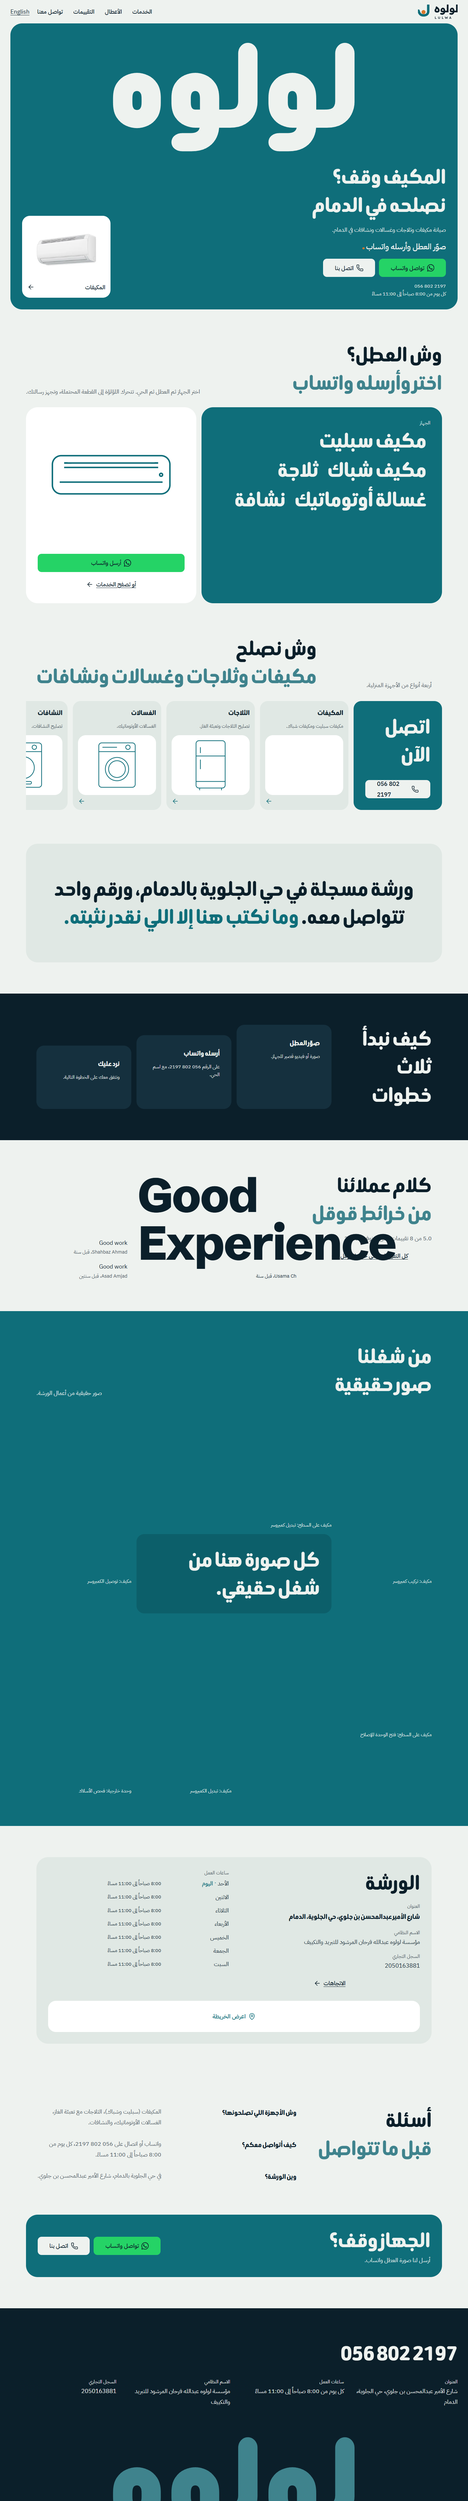
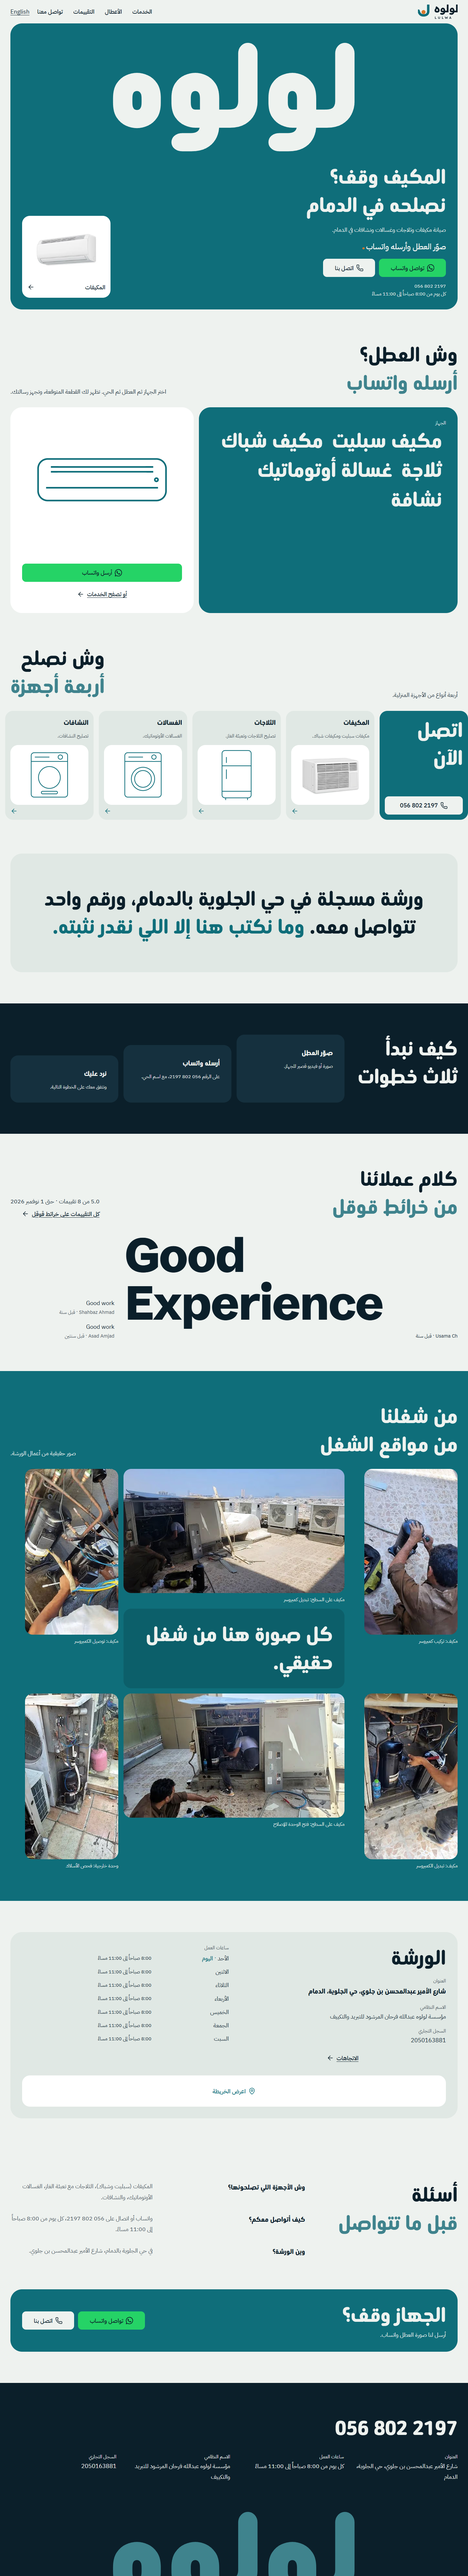
phase 4 wip: headings, margins, copy review

diff --git a/src/content/ar.ts b/src/content/ar.ts
@@ -105,25 +105,25 @@ export const ar: Content = {
     },
     picker: {
       heading: 'وش العطل؟',
-      quiet: 'اختر وأرسله واتساب',
-      lead: 'اختر الجهاز ثم العطل ثم الحي. تتحرك اللؤلؤة إلى القطعة المحتملة، وتجهز رسالتك.',
+      quiet: 'أرسله واتساب',
+      lead: 'اختر الجهاز ثم العطل ثم الحي. تظهر لك القطعة المتوقعة، وتجهز رسالتك.',
       applianceLabel: 'الجهاز',
       faultLabel: 'العطل',
       areaLabel: 'الحي',
       send: 'أرسل واتساب',
       plain: 'أو تصفح الخدمات',
-      likely: 'القطعة المحتملة:',
+      likely: 'القطعة المتوقعة:',
       message: 'السلام عليكم، عندي {appliance}، {fault}. الحي: {area}.',
       appliances: [
         { slug: 'split-ac', name: 'مكيف سبليت', service: 'ac-repair', faults: [{ label: 'ما يبرّد', part: 'الفلتر أو الغاز' }, { label: 'يسرّب ماء', part: 'مجرى التصريف' }, { label: 'ما يشتغل', part: 'لوحة التحكم' }, { label: 'صوته عالي', part: 'المروحة' }] },
         { slug: 'window-ac', name: 'مكيف شباك', service: 'ac-repair', faults: [{ label: 'ما يبرّد', part: 'الفلتر أو الغاز' }, { label: 'يسرّب ماء', part: 'مجرى التصريف' }, { label: 'ما يشتغل', part: 'لوحة التحكم' }, { label: 'صوته عالي', part: 'المروحة' }] },
         { slug: 'fridge', name: 'ثلاجة', service: 'refrigerator-repair', faults: [{ label: 'ما تبرّد', part: 'الكمبروسر أو الغاز' }, { label: 'تسرّب ماء', part: 'مجرى التصريف' }, { label: 'ما تشتغل', part: 'لوحة التحكم' }, { label: 'صوتها عالي', part: 'المروحة أو الكمبروسر' }] },
-        { slug: 'washer', name: 'غسالة أوتوماتيك', service: 'washing-machine-repair', faults: [{ label: 'ما تعصر', part: 'السير أو الموتور' }, { label: 'ما تصرّف الماء', part: 'مضخة التصريف' }, { label: 'ما تشتغل', part: 'لوحة التحكم' }, { label: 'تهتز بقوة', part: 'المساعدات' }] },
+        { slug: 'washer', name: 'غسالة أوتوماتيك', service: 'washing-machine-repair', faults: [{ label: 'ما تعصر', part: 'السير أو الدينمو' }, { label: 'ما تصرّف الماء', part: 'مضخة التصريف' }, { label: 'ما تشتغل', part: 'لوحة التحكم' }, { label: 'تهتز بقوة', part: 'المساعدات' }] },
         { slug: 'dryer', name: 'نشافة', service: 'dryer-repair', faults: [{ label: 'ما تسخّن', part: 'السخان' }, { label: 'ما تجفف زي أول', part: 'فلتر الوبر' }, { label: 'ما تدور', part: 'السير' }, { label: 'ما تشتغل', part: 'لوحة التحكم' }] },
       ],
-      areas: ['الجلوية', 'حي ثاني في الدمام'],
+      areas: ['الجلوية', 'حي آخر في الدمام'],
     },
-    repair: { heading: 'وش نصلح', quiet: 'مكيفات وثلاجات وغسالات ونشافات', lead: 'أربعة أنواع من الأجهزة المنزلية.', callLabel: 'اتصل الآن' },
+    repair: { heading: 'وش نصلح', quiet: 'أربعة أجهزة', lead: 'أربعة أنواع من الأجهزة المنزلية.', callLabel: 'اتصل الآن' },
     statement: { start: 'ورشة مسجلة في حي الجلوية بالدمام، ورقم واحد تتواصل معه.', quiet: 'وما نكتب هنا إلا اللي نقدر نثبته.' },
     steps: {
       heading: 'كيف نبدأ',
@@ -137,7 +137,7 @@ export const ar: Content = {
     reviews: { heading: 'كلام عملائنا', quiet: 'من خرائط قوقل', link: 'كل التقييمات على خرائط قوقل' },
     work: {
       heading: 'من شغلنا',
-      quiet: 'صور حقيقية',
+      quiet: 'من مواقع الشغل',
       lead: 'صور حقيقية من أعمال الورشة.',
       statement: 'كل صورة هنا من شغل حقيقي.',
       items: [

diff --git a/src/content/en.ts b/src/content/en.ts
@@ -104,8 +104,8 @@ export const en: Content = {
       tile: { alt: 'Illustration of a split air conditioner' },
     },
     picker: {
-      heading: 'What is the fault?',
-      quiet: 'Pick it, send it on WhatsApp',
+      heading: 'What is wrong?',
+      quiet: 'Pick and send',
       lead: 'Pick the appliance, the fault, then your district. The pearl moves to the likely part and your message is ready.',
       applianceLabel: 'Appliance',
       faultLabel: 'Fault',
@@ -113,7 +113,7 @@ export const en: Content = {
       send: 'Send on WhatsApp',
       plain: 'Or browse the services',
       likely: 'Likely part:',
-      message: 'Hello, I have a {appliance}: {fault}. District: {area}.',
+      message: 'Hello. Appliance: {appliance}. Fault: {fault}. District: {area}.',
       appliances: [
         { slug: 'split-ac', name: 'Split AC', service: 'ac-repair', faults: [{ label: 'Not cooling', part: 'filter or gas' }, { label: 'Leaking water', part: 'drain line' }, { label: 'Will not start', part: 'control board' }, { label: 'Loud', part: 'fan' }] },
         { slug: 'window-ac', name: 'Window AC', service: 'ac-repair', faults: [{ label: 'Not cooling', part: 'filter or gas' }, { label: 'Leaking water', part: 'drain line' }, { label: 'Will not start', part: 'control board' }, { label: 'Loud', part: 'fan' }] },
@@ -123,7 +123,7 @@ export const en: Content = {
       ],
       areas: ['Al-Jalawiyah', 'Another Dammam district'],
     },
-    repair: { heading: 'What we repair', quiet: 'ACs, fridges, washers and dryers', lead: 'Four kinds of household appliance.', callLabel: 'Call now' },
+    repair: { heading: 'What we repair', quiet: 'Four appliances', lead: 'Four kinds of household appliance.', callLabel: 'Call now' },
     statement: { start: 'A registered shop in Al-Jalawiyah, Dammam, with one number to reach.', quiet: 'We only write here what we can show.' },
     steps: {
       heading: 'How it starts',
@@ -134,10 +134,10 @@ export const en: Content = {
         { title: 'We reply', text: 'And agree the next step with you.' },
       ],
     },
-    reviews: { heading: 'What customers say', quiet: 'From Google Maps', link: 'All reviews on Google Maps' },
+    reviews: { heading: 'Customer reviews', quiet: 'From Google Maps', link: 'All reviews on Google Maps' },
     work: {
       heading: 'Our work',
-      quiet: 'Real photos',
+      quiet: 'From the job site',
       lead: 'Real photos from the shop’s jobs.',
       statement: 'Every photo here is from a real job.',
       items: [
@@ -152,7 +152,7 @@ export const en: Content = {
     shop: { heading: 'The shop', addressLabel: 'Address', address: 'Prince Abdulmohsen bin Jalawi Street, Al-Jalawiyah, Dammam', hoursLabel: 'Opening hours', hours: 'Every day, 8:00 AM to 11:00 PM', hoursRange: '8:00 AM to 11:00 PM', today: 'Today', days: ['Sunday', 'Monday', 'Tuesday', 'Wednesday', 'Thursday', 'Friday', 'Saturday'], mapLoad: 'Show the map', legalLabel: 'Legal name', crLabel: 'Commercial registration' },
     faq: {
       heading: 'Questions',
-      quiet: 'Before you get in touch',
+      quiet: 'Before you write',
       items: [
         { q: 'Which appliances do you repair?', a: 'Air conditioners (split and window), fridges including gas refilling, automatic washing machines and dryers.' },
         { q: 'How do I reach you?', a: `WhatsApp or call ${phone}, every day from 8:00 AM to 11:00 PM.` },

diff --git a/src/styles/tokens.css b/src/styles/tokens.css
@@ -68,7 +68,7 @@
   --spacing-hero: 44rem; /* hero panel floor on desktop */
 
   --container-*: initial;
-  --container-page: 80rem;
+  --container-page: 90rem; /* content lines up with the hero's margins at 1440 */
   --container-text: 40rem;
 
   --shadow-*: initial;
@@ -85,6 +85,7 @@
   --stagger: 70ms;
   --rise: 1.25rem;
   --focus-width: 3px;
+  --word-display: 0.12em; /* Beiruti's space is thin: words run together at display size */
 }
 
 :lang(en) {

diff --git a/src/styles/global.css b/src/styles/global.css
@@ -59,6 +59,10 @@
     caret-color: var(--color-teal);
   }
 
+  .font-display:lang(ar) {
+    word-spacing: var(--word-display);
+  }
+
   ::selection {
     background: var(--color-teal);
     color: var(--color-pearl);

diff --git a/docs/FOR-AMEER.md b/docs/FOR-AMEER.md
@@ -28,6 +28,20 @@ Questions, verifications and access needed, gathered while Ameer sleeps. Nothing
 - **Blog:** the 3 old posts are replaced by short, generic how-to posts on the same slugs. The old posts were full of unsourced claims. Technician to confirm the advice (filter, drain hose, lint) is right.
 - Arabic doubts for the native reader: `docs/ARABIC-REVIEW.md`.
 
+## Phase 4 (2026-11-01)
+- **Home OK?** `docs/shots/phase-4/`. Layout follows your reference: picker bento, service row with call card, tinted statement, process, review, photo wall, shop, questions, close.
+- **Technician check needed:** every fault-to-part link in the picker (`home.picker.appliances` in `src/content/ar.ts` and `en.ts`, pearl spots in `src/components/appliance-art.ts`) is my own reasoning. The site labels them only as "likely" (القطعة المتوقعة). Nobody has confirmed them.
+- **Product images incomplete:** agy's image quota ran out (429, reset about 4.5 hours after 09:15 on 1 Nov). Window AC and outdoor unit came through, checked, no logos or lettering. Fridge, washer and dryer cards show line drawings for now. To swap: `python scripts/gen-products.py`, look at each image, `node scripts/images.mjs`, `pnpm build`. The cards pick them up with no code change. The compressor image was dropped, since nothing on the page uses it.
+- **Photo captions are read from the photos and their file names,** not from the shop: "compressor change", "checking the wiring". Client or technician to confirm.
+- **Rooftop units:** two wall photos show rooftop package units, and central AC is still unconfirmed in `PRODUCT.md`. Captions say only "rooftop AC". Drop the two photos if the client does not want to imply that work.
+- **Faces:** technicians are partly visible in the photos (`compressor-install`, `rooftop-unit-repair`). Get the client's OK to publish.
+- **Photos left out:** shopfront (old sign), technician-package-unit (coverall reads AJCO, another company), delivery truck and street night (plates, other shops), LG outdoor units (could read as an LG agency).
+- **Reviews on home:** the two with emoji are left off until you make the Phase 2 call. Only "Good Experience" and two "Good work" show, which is thin at statement size. A longer review from the 3 unseen ones would help.
+- **Map:** the tap-to-load map searches "Al-Jalawiyah, Dammam", not a pin. Needs the exact pin from the client (question 9). Directions opens the Google listing.
+- **Picker areas:** Al-Jalawiyah and "another Dammam district" only, because no other area is confirmed.
+- **New Arabic words for the native reader:** see `docs/ARABIC-REVIEW.md`.
+- **Links:** service cards and the picker's no-JS links 404 until Phase 5 builds those pages.
+
 ## Phase 3 (2026-11-01)
 - **Hero OK?** `docs/shots/phase-3/`. It follows your reference: teal panel, giant لولوه / LULWA, one AC tile.
 - **Home-visit swap:** the hero says `صوّر العطل وأرسله واتساب` / `Photograph the fault and send it on WhatsApp`, which are confirmed facts. When the client confirms visits, add a dated line to `PRODUCT.md`, then set `home.hero.homeVisitLine` to `نجيك لحد بيتك` / `We come to you` in `src/content/ar.ts` and `en.ts`. It replaces the line with no code change. `home.hero.service` could then be reviewed too.

diff --git a/docs/ARABIC-REVIEW.md b/docs/ARABIC-REVIEW.md
@@ -20,3 +20,6 @@ agy reviewed these on 1 Nov 2026. Its suggestions are unverified and nothing was
 - `العنوان` or `الموقع`, `ساعات العمل` or `أوقات العمل`.
 - `الاسم النظامي`: agy suggests `الاسم التجاري`, but that is a different thing from the legal name. Check the right term.
 - `الأعطال` in the nav: agy suggests `الأعطال الشائعة`. `التقييمات`: agy suggests `آراء العملاء`.
+
+## Phase 4: home bands and picker
+agy reviewed this copy once. Taken: القطعة المتوقعة, حي آخر في الدمام, الدينمو (agy says it is the common Saudi word for an appliance motor; confirm). Rejected: أرسلها (العطل is masculine), بدون تعديل (the photos are retouched). Please read: المساعدات for washer shock absorbers, ما تدور for a dryer drum, من مواقع الشغل, قبل ما تتواصل.

diff --git a/CLAUDE.md b/CLAUDE.md
@@ -61,6 +61,7 @@ Keep this list in sync with `package.json`.
 - `pnpm test:contract`: builds, runs T1 to T22, prints each against the phase that owes it. Add `--fast` to skip Lighthouse. About 20 minutes while pages are missing.
 - `pnpm test:e2e`: Playwright only, on the built site, in installed Edge. `pnpm test:e2e tests/nap.spec.ts` for one.
 - `pnpm test:photos` (T22), `pnpm test:taste` (T20), `pnpm test:lighthouse` (T18)
+- `node scripts/images.mjs`: exports photos and product images to `public/images`, rewrites `src/images/provenance.json`. `python scripts/gen-products.py [names]`: product images with agy.
 - `python scripts/subset-fonts.py <raw font dir>`: rebuilds `public/fonts`. `node scripts/sink-shots.mjs`: kitchen sink screenshots. `node scripts/phase-shots.mjs <n>`: home screenshots to `docs/shots/phase-<n>/`, after `pnpm build`.
 
 ## How work happens
